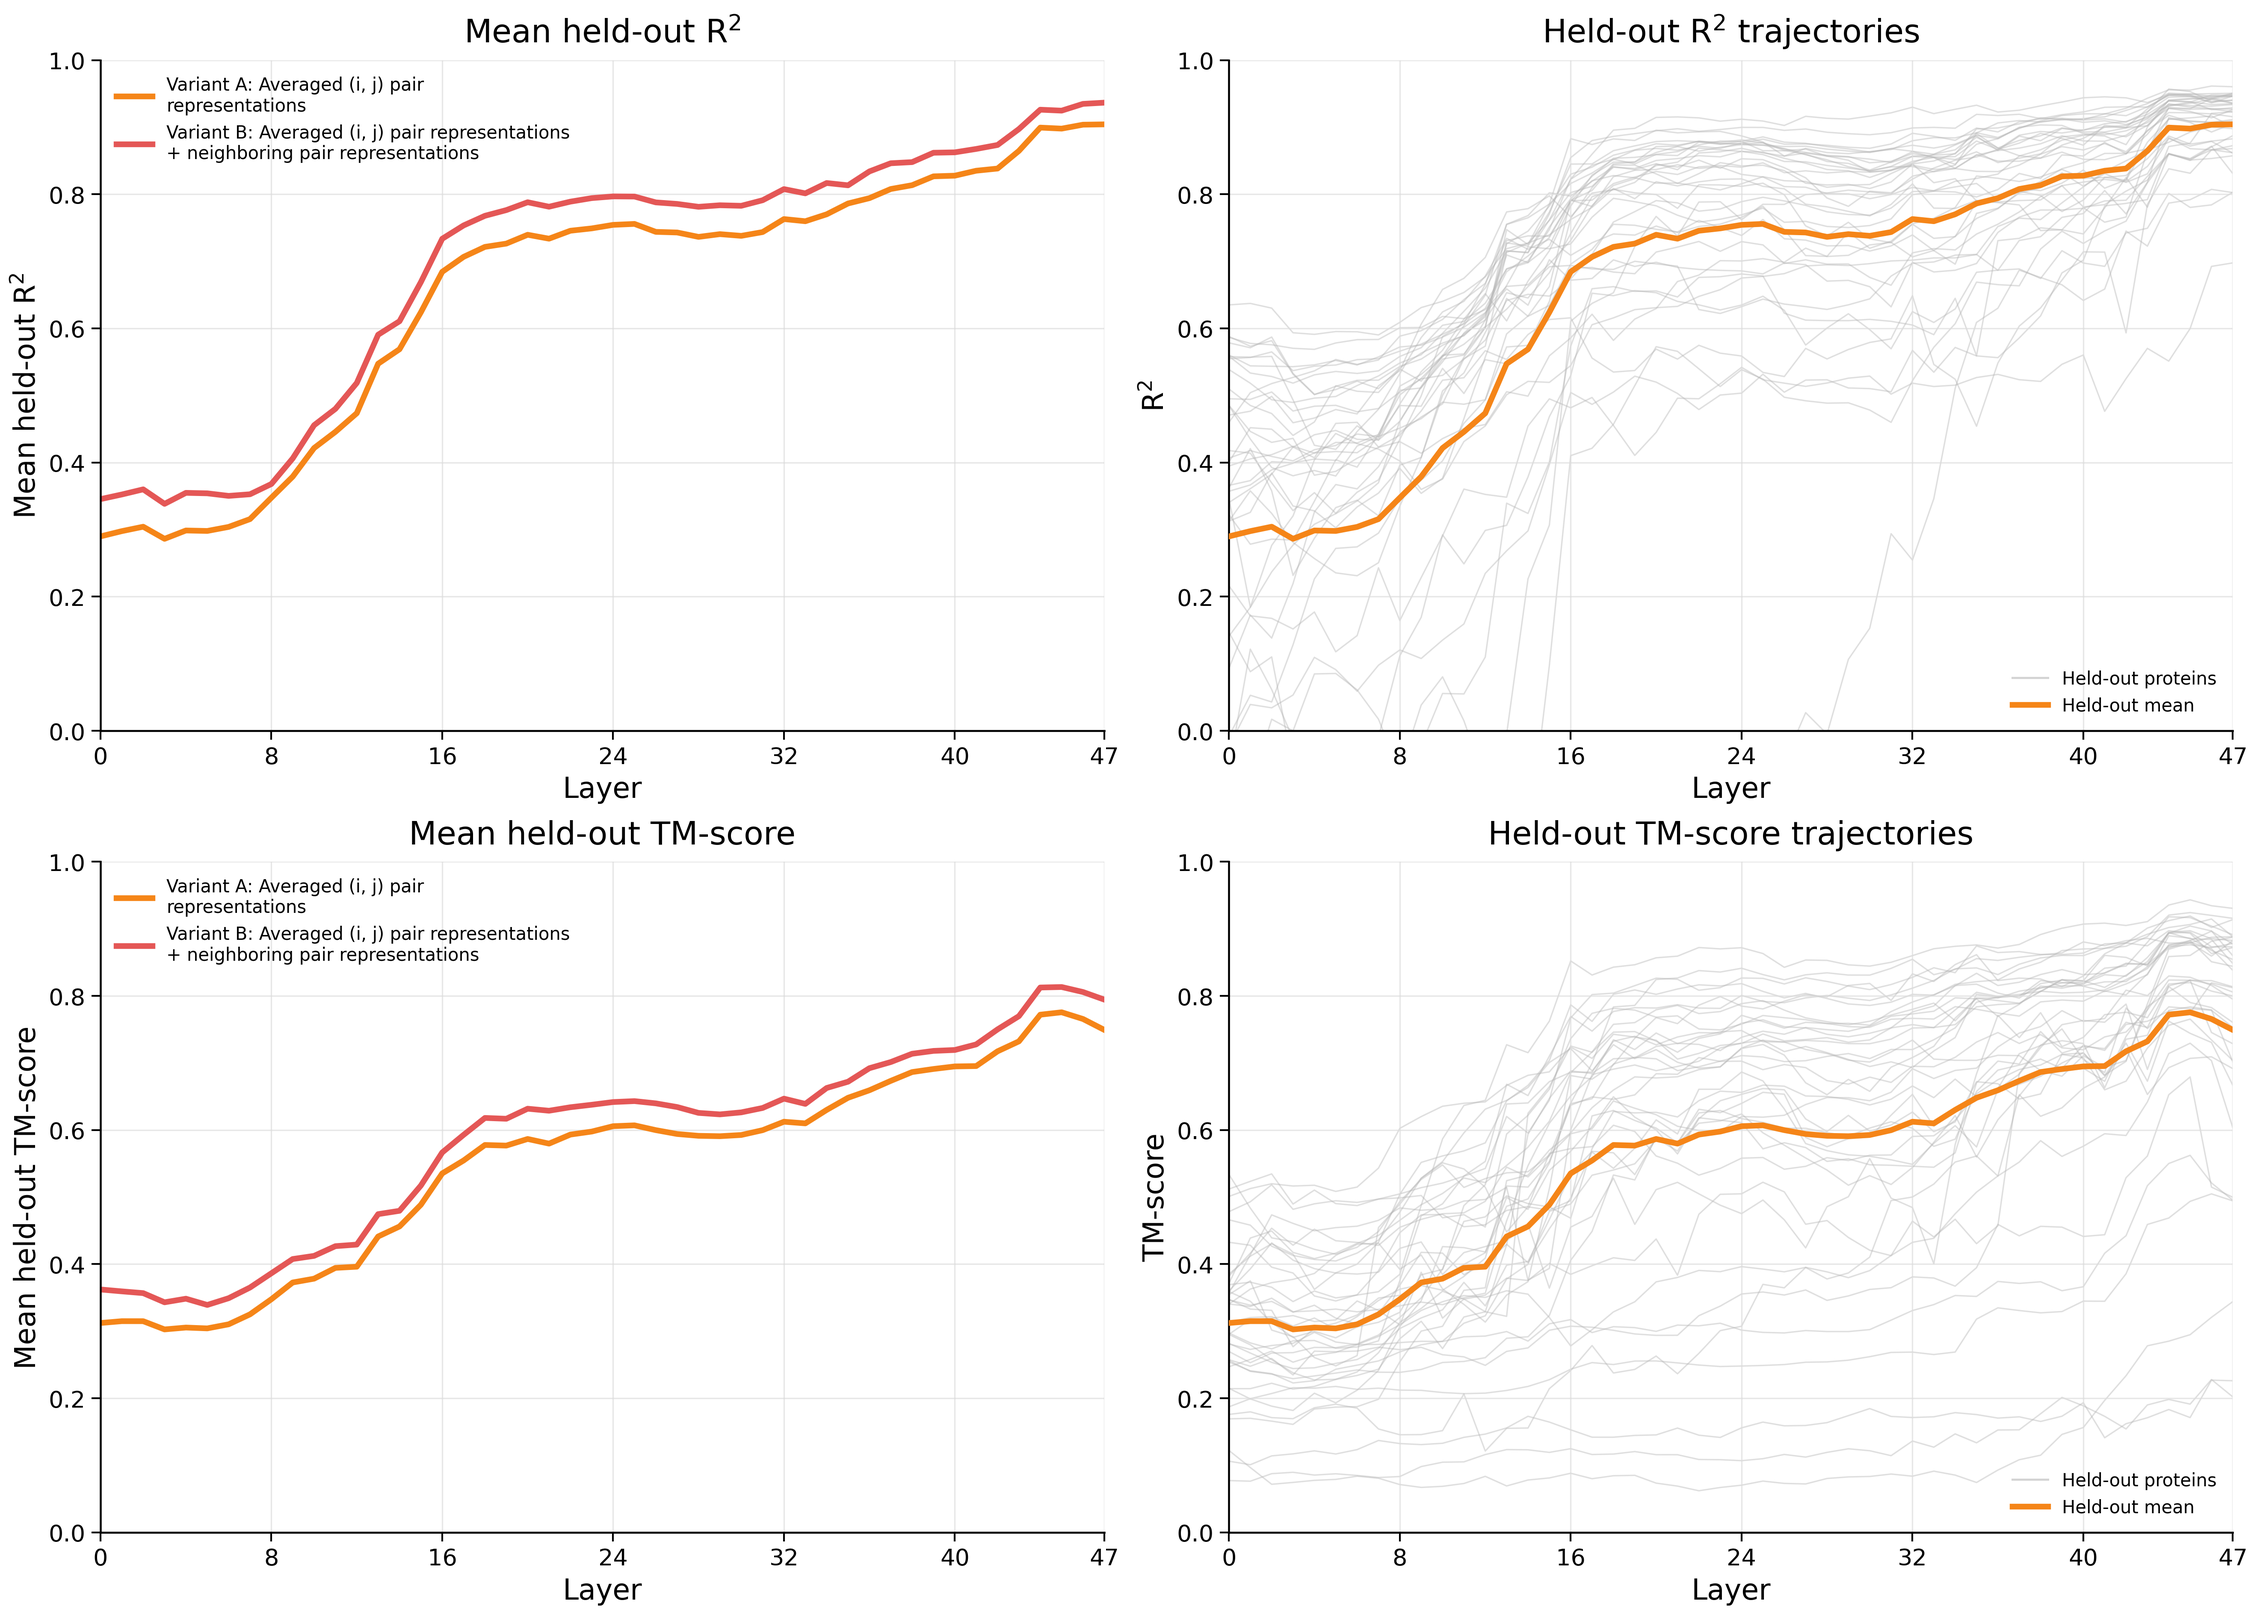
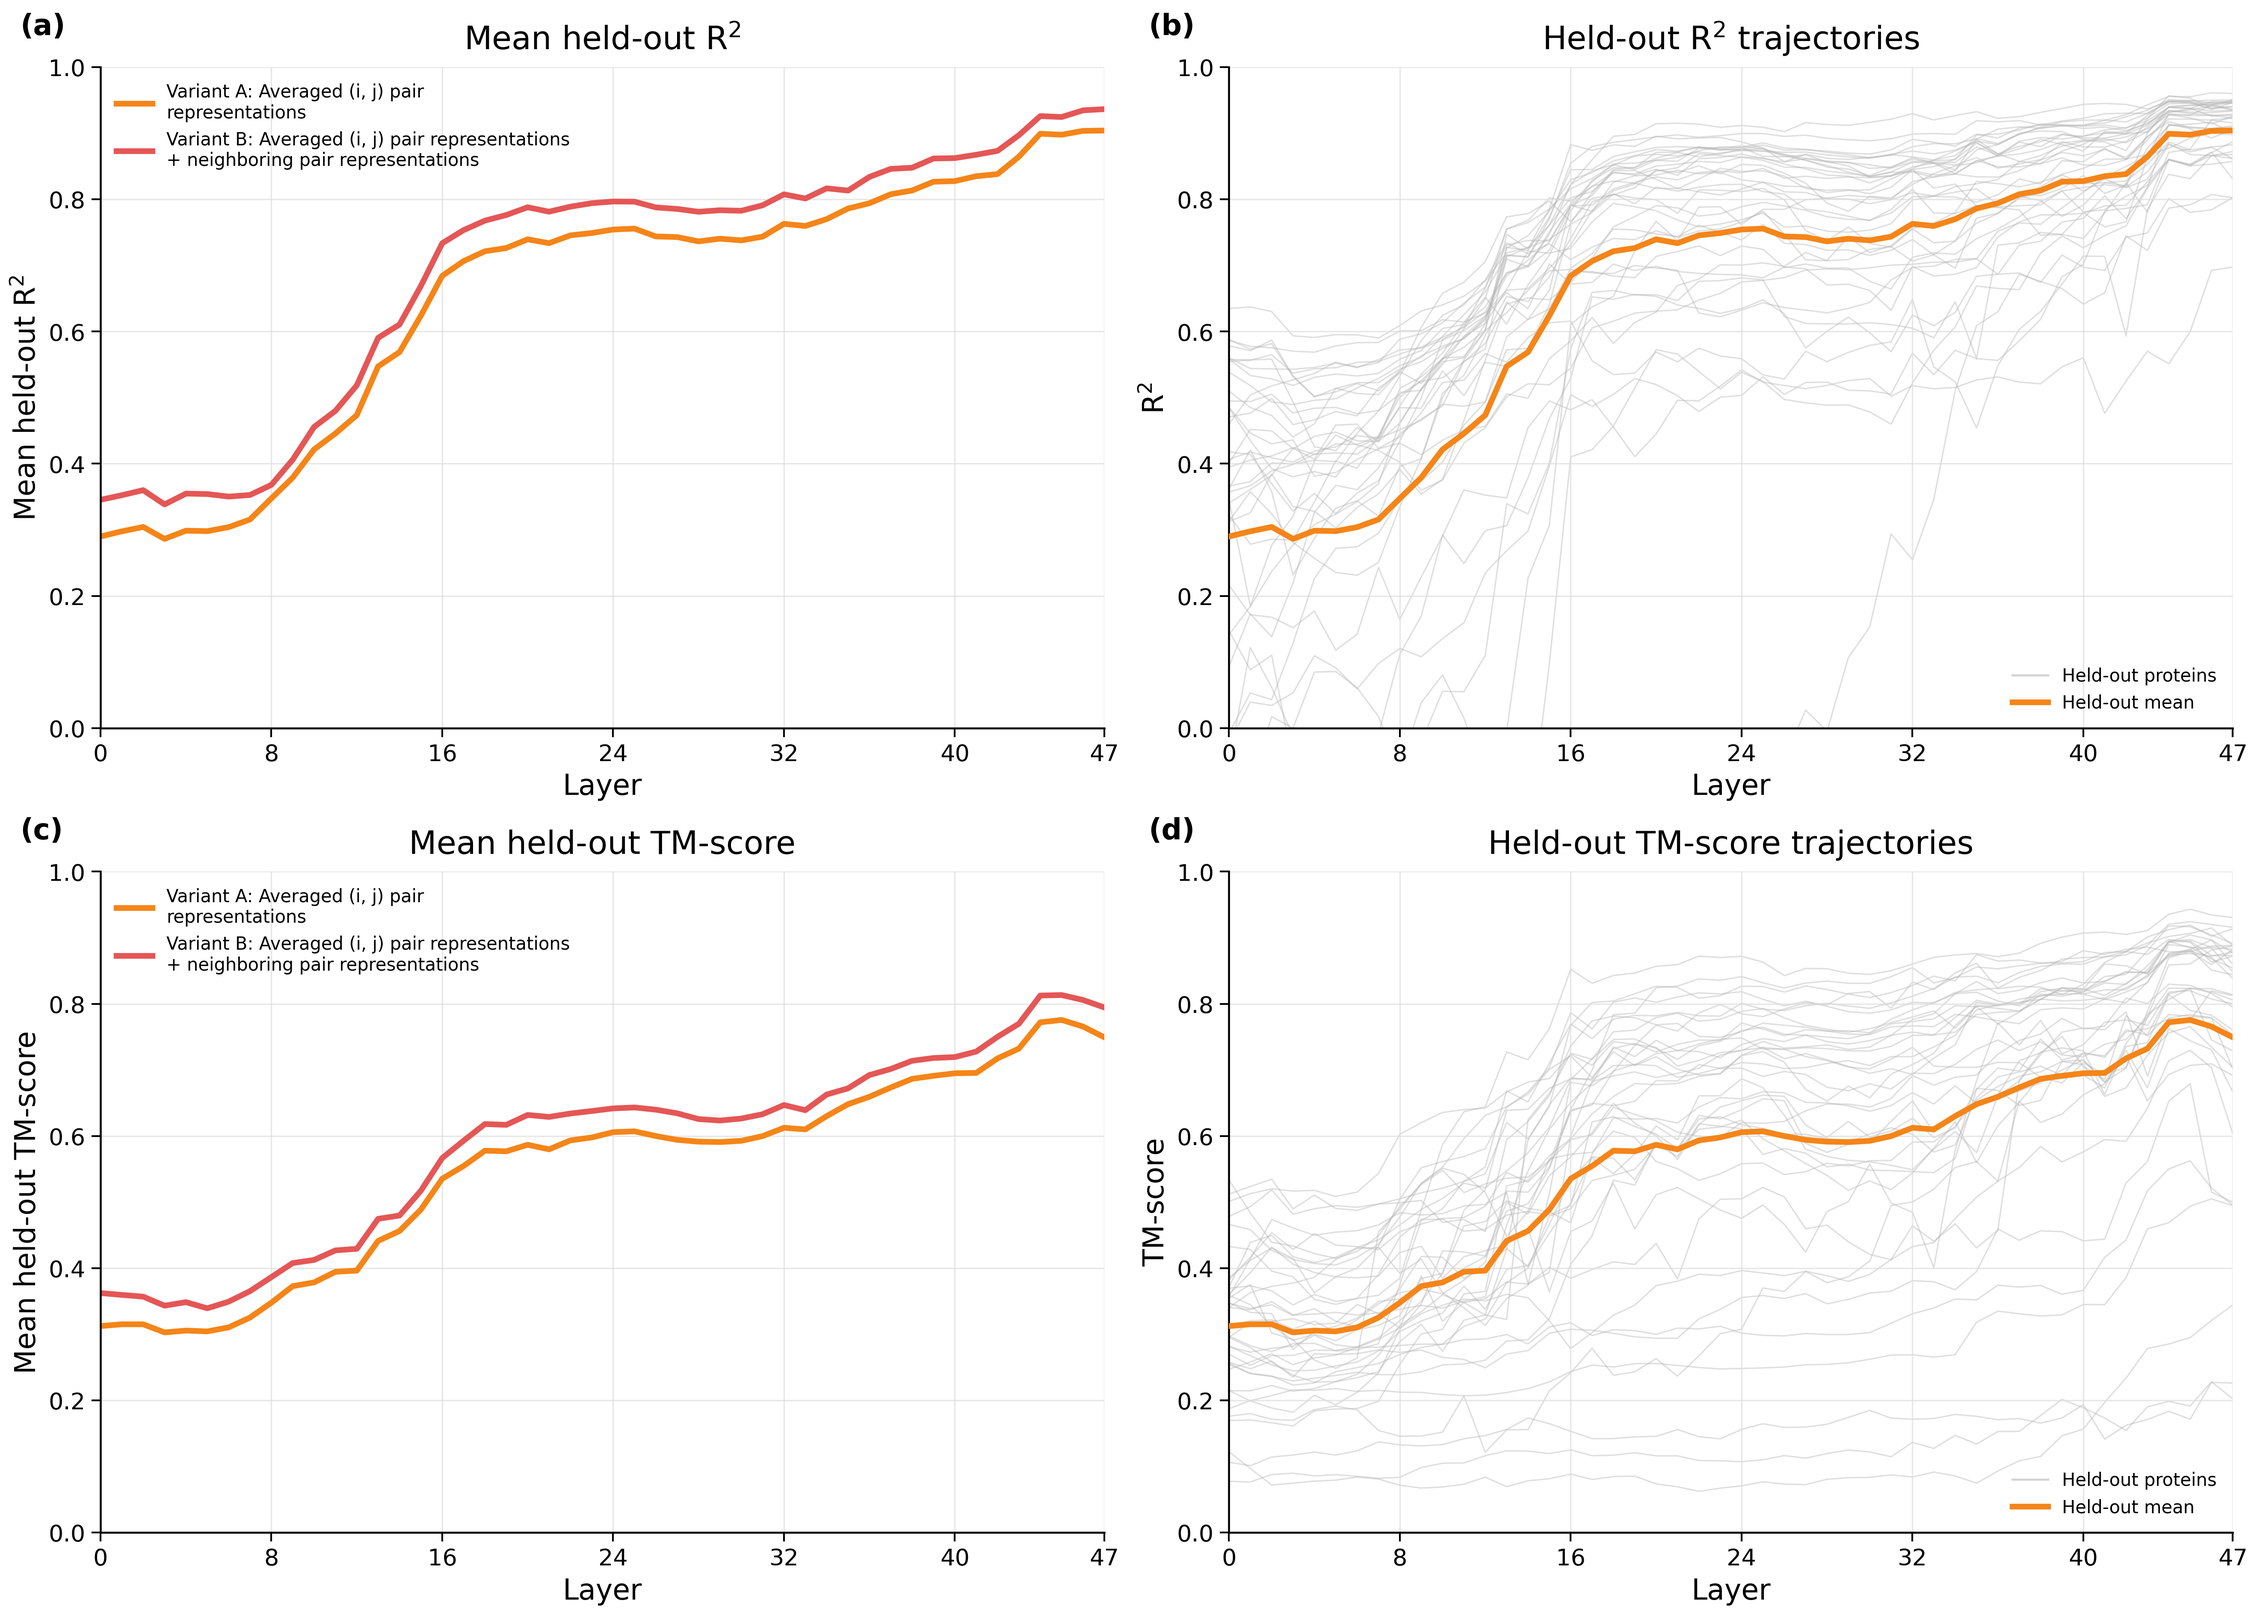
Add panel labels to combined publication plot

diff --git a/delta_files/publication_plots/create_publication_plots.py b/delta_files/publication_plots/create_publication_plots.py
@@ -97,6 +97,19 @@ def add_common_axis_style(ax: plt.Axes) -> None:
     ax.tick_params(axis="both", width=1.0, length=5)
 
 
+def add_panel_label(ax: plt.Axes, label: str) -> None:
+    ax.text(
+        -0.08,
+        1.04,
+        label,
+        transform=ax.transAxes,
+        ha="left",
+        va="bottom",
+        fontsize=16,
+        fontweight="bold",
+    )
+
+
 def plot_variant_comparison(
     ax: plt.Axes,
     variant_a: pd.DataFrame,
@@ -263,6 +276,9 @@ def create_combined_figure(
         ylabel="TM-score",
         legend_fontsize=10,
     )
+
+    for ax, label in zip(axes.flat, ["(a)", "(b)", "(c)", "(d)"]):
+        add_panel_label(ax, label)
 
     save_figure(fig, "04_combined_publication_panel")
 
